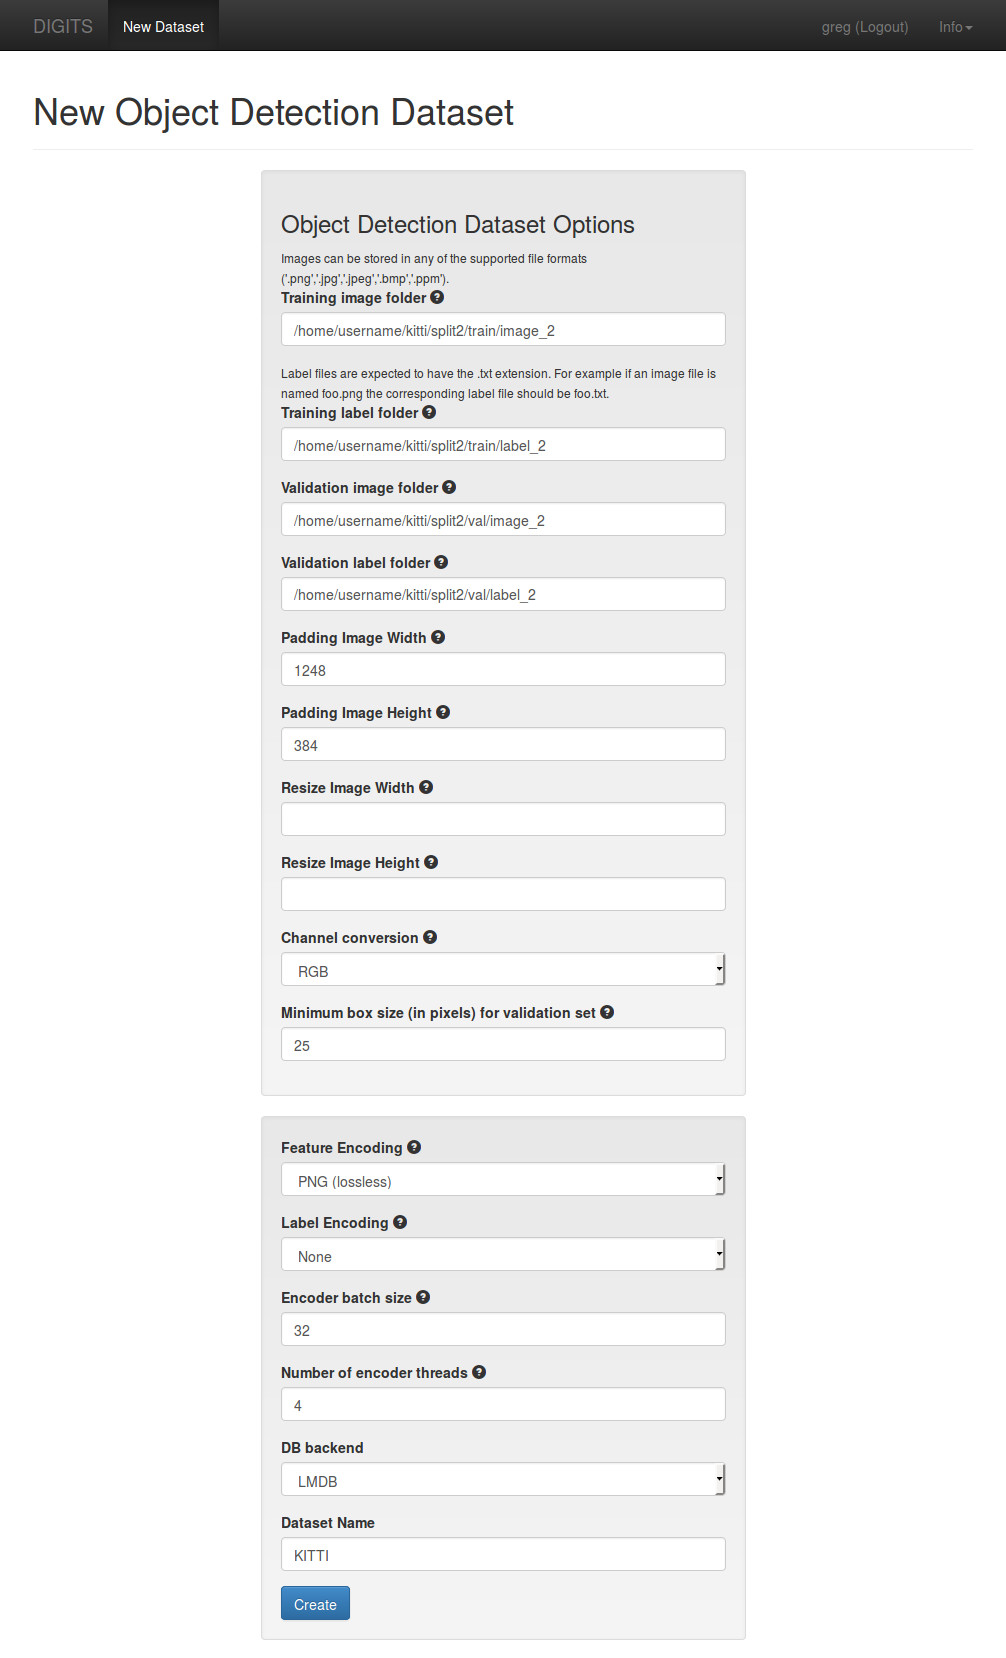
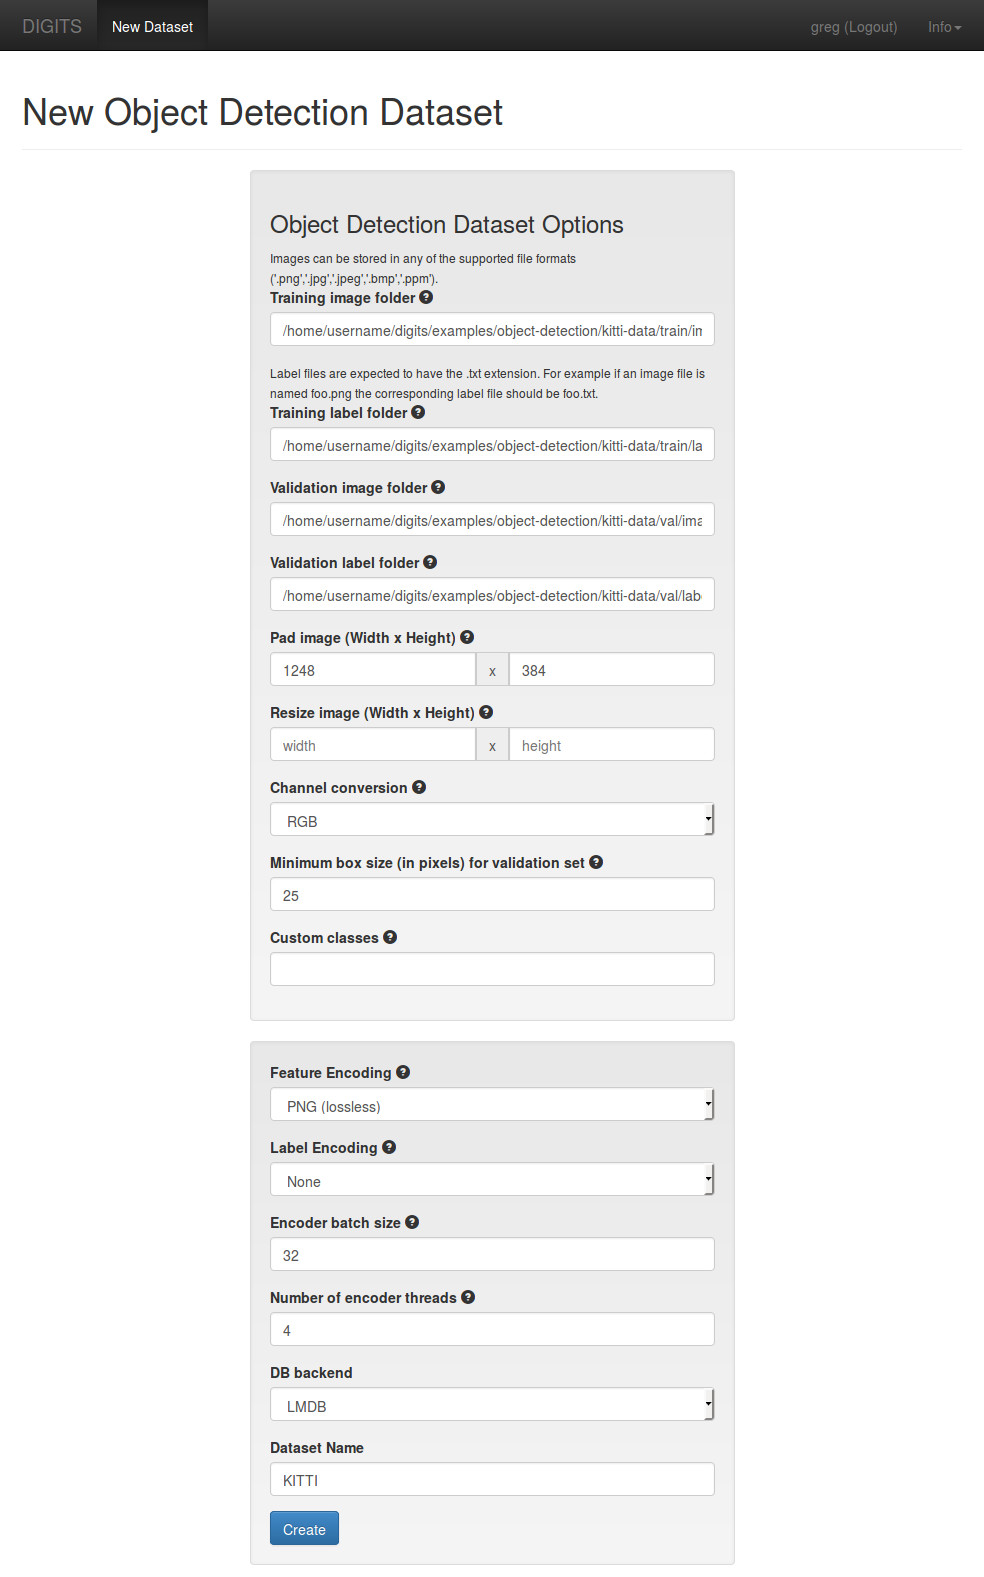
Improve object detection documentation
Add info about where to get KITTI data
Explain how to use kitti data script
Document the KITTI data format used
Small clarification about where to copy DetectNet from

diff --git a/digits/extensions/data/objectDetection/README.md b/digits/extensions/data/objectDetection/README.md
@@ -1,18 +1,130 @@
 # Object Detection Data Extension
 
-This data extension creates DIGITS datasets for Object Detection networks such as [DetectNet](https://github.com/NVIDIA/caffe/tree/caffe-0.15/examples/kitti).
+This data extension creates DIGITS datasets for object detection networks such as [DetectNet](https://github.com/NVIDIA/caffe/tree/caffe-0.15/examples/kitti).
 
-Labels are expected in KITTI format.
-Refer to the Object Detection track on KITTI web site for more information.
+DIGITS uses the KITTI format for object detection data.
+When preparing your own data for ingestion into a dataset, you must follow the same format.
 
-Custom class mappings may be used by specifiying a comma-separated list of lower-case class names in the Object Detection dataset creation form.
-Class ID #0 is intended to be reserved for `DontCare` objects.
-Labels whose class is not listed in the class mappings are implicitly mapped to the `DontCare` class.
-Class IDs are used by DetectNet (see `DetectNetTransformation.detectnet_groundtruth_param.object_class` fields) to recognize which objects should be included and mapped to the specified index in the coverage map.
+#### Table of contents
 
-The following table shows the default class-ID mappings in DIGITS:
+* [Folder structure](#folder-structure)
+* [Label format](#label-format)
+* [Custom class mappings](#custom-class-mappings)
 
-Class name | ID
+## Folder structure
+
+You should have one folder containing images, and another folder containing labels.
+
+* Image filenames are formatted like `IDENTIFIER.EXTENSION` (e.g. `000001.png` or `foo.jpg`).
+* Label filenames are formatted like `IDENTIFIER.txt` (e.g. `000001.txt` or `foo.txt`).
+
+These identifiers need to match.
+So, if you have a `foo.png` in your image directory, there must to be a corresponding `foo.txt` in your labels directory.
+
+If you want to include validation data, then you need separate folders for validation images and validation labels.
+A typical folder layout would look something like this:
+```
+train/
+├── images/
+│   └── 000001.png
+└── labels/
+    └── 000001.txt
+val/
+├── images/
+│   └── 000002.png
+└── labels/
+    └── 000002.txt
+```
+
+## Label format
+
+The format for KITTI labels is explained in the `readme.txt` from the "Object development kit".
+Here is the relevant portion:
+```
+Data Format Description
+=======================
+
+The data for training and testing can be found in the corresponding folders.
+The sub-folders are structured as follows:
+
+  - image_02/ contains the left color camera images (png)
+  - label_02/ contains the left color camera label files (plain text files)
+  - calib/ contains the calibration for all four cameras (plain text file)
+
+The label files contain the following information, which can be read and
+written using the matlab tools (readLabels.m, writeLabels.m) provided within
+this devkit. All values (numerical or strings) are separated via spaces,
+each row corresponds to one object. The 15 columns represent:
+
+#Values    Name      Description
+----------------------------------------------------------------------------
+   1    type         Describes the type of object: 'Car', 'Van', 'Truck',
+                     'Pedestrian', 'Person_sitting', 'Cyclist', 'Tram',
+                     'Misc' or 'DontCare'
+   1    truncated    Float from 0 (non-truncated) to 1 (truncated), where
+                     truncated refers to the object leaving image boundaries
+   1    occluded     Integer (0,1,2,3) indicating occlusion state:
+                     0 = fully visible, 1 = partly occluded
+                     2 = largely occluded, 3 = unknown
+   1    alpha        Observation angle of object, ranging [-pi..pi]
+   4    bbox         2D bounding box of object in the image (0-based index):
+                     contains left, top, right, bottom pixel coordinates
+   3    dimensions   3D object dimensions: height, width, length (in meters)
+   3    location     3D object location x,y,z in camera coordinates (in meters)
+   1    rotation_y   Rotation ry around Y-axis in camera coordinates [-pi..pi]
+   1    score        Only for results: Float, indicating confidence in
+                     detection, needed for p/r curves, higher is better.
+
+Here, 'DontCare' labels denote regions in which objects have not been labeled,
+for example because they have been too far away from the laser scanner. To
+prevent such objects from being counted as false positives our evaluation
+script will ignore objects detected in don't care regions of the test set.
+You can use the don't care labels in the training set to avoid that your object
+detector is harvesting hard negatives from those areas, in case you consider
+non-object regions from the training images as negative examples.
+
+The coordinates in the camera coordinate system can be projected in the image
+by using the 3x4 projection matrix in the calib folder, where for the left
+color camera for which the images are provided, P2 must be used. The
+difference between rotation_y and alpha is, that rotation_y is directly
+given in camera coordinates, while alpha also considers the vector from the
+camera center to the object center, to compute the relative orientation of
+the object with respect to the camera. For example, a car which is facing
+along the X-axis of the camera coordinate system corresponds to rotation_y=0,
+no matter where it is located in the X/Z plane (bird's eye view), while
+alpha is zero only, when this object is located along the Z-axis of the
+camera. When moving the car away from the Z-axis, the observation angle
+will change.
+
+To project a point from Velodyne coordinates into the left color image,
+you can use this formula: x = P2 * R0_rect * Tr_velo_to_cam * y
+For the right color image: x = P3 * R0_rect * Tr_velo_to_cam * y
+
+Note: All matrices are stored row-major, i.e., the first values correspond
+to the first row. R0_rect contains a 3x3 matrix which you need to extend to
+a 4x4 matrix by adding a 1 as the bottom-right element and 0's elsewhere.
+Tr_xxx is a 3x4 matrix (R|t), which you need to extend to a 4x4 matrix
+in the same way!
+
+Note, that while all this information is available for the training data,
+only the data which is actually needed for the particular benchmark must
+be provided to the evaluation server. However, all 15 values must be provided
+at all times, with the unused ones set to their default values (=invalid) as
+specified in writeLabels.m. Additionally a 16'th value must be provided
+with a floating value of the score for a particular detection, where higher
+indicates higher confidence in the detection. The range of your scores will
+be automatically determined by our evaluation server, you don't have to
+normalize it, but it should be roughly linear. If you use writeLabels.m for
+writing your results, this function will take care of storing all required
+data correctly.
+```
+
+## Custom class mappings
+
+When creating the dataset, DIGITS has to translate from the object type string to a numerical identifier.
+By default, DIGITS uses the following class mappings, as follows from the above label format description:
+
+Class name (string in label file) | Class ID (number in database)
 ---------- | ---
 dontcare | 0
 car | 1
@@ -29,3 +141,22 @@ people | 11
 cyclist | 12
 tram | 13
 person_sitting | 14
+
+**NOTE:** Class 0 is treated as a special case.
+See "Label format" above for a detailed description.
+All classes which don't exist in the provided mapping are implicitly mapped to 0.
+
+**NOTE:** Class 1 is also treated as a special case.
+DetectNet is a single-class object detection network, and only cares about the "Car" class, which is expected to be ID 1.
+You can change the mapping in the DetectNet prototxt, but it's simplest to just make the class you care about map to 1.
+
+Custom class mappings may be used by specifiying a comma-separated list of lower-case class names in the Object Detection dataset creation form.
+
+For example, if you only want to detect pedestrians, enter `dontcare,pedestrian` in the "Custom classes" field to generate this mapping:
+
+Class name | Class ID
+---------- | ---
+dontcare | 0
+pedestrian | 1
+
+All labeled objects other than "pedestrian" in your dataset will be mapped to 0.

diff --git a/examples/object-detection/README.md b/examples/object-detection/README.md
@@ -4,7 +4,7 @@ Table of Contents
 =================
 * [Introduction](#introduction)
 * [Dataset creation](#dataset-creation)
-    * [Preparing the data](#preparing-the-data)
+    * [Downloading and preparing the KITTI data](#downloading-and-preparing-the-kitti-data)
     * [Loading the data into DIGITS](#loading-the-data-into-digits)
 * [Model creation](#model-creation)
     * [DetectNet](#detectnet)
@@ -19,21 +19,45 @@ During inference, object detection will be materialized by drawing bounding rect
 
 ## Dataset creation
 
-### Preparing the data
+In this example, we will be using data from the Object Detection track of the KITTI Vision Benchmark Suite.
+You can of course use any other data you like, but DIGITS expects object detection data to be labelled in the style of KITTI data.
 
-This walk-through was tested using images and labels from the **Car** Object Detection track of the KITTI Vision benchmark.
-Other similar datasets may be used though you may prefer to download the KITTI dataset from their web site if you wish to replicate the results from this example.
+If you do want to use your own dataset instead of KITTI, read [digits/extensions/data/objectDetection/README.md](../../digits/extensions/data/objectDetection/README.md) to format your data properly and then skip the next section.
 
-Optionally you may split the dataset into a training set and a (usually much smaller) validation set.
-Doing so is strongly recommended to assess the quality of the neural network.
+### Downloading and preparing the KITTI data
 
-The data need to be structured in the following way:
-- An image folder contains supported images (.png, .jpg, .jpeg, .bmp, .ppm).
-- A label folder contains .txt files in KITTI format that define the ground truth.
-Note that for each image in the image folder there must be a corresponding text file in the label folder.
+We are unable to provide download links to the KITTI data like we can for MNIST and CIFAR, so you'll have to download a few large files yourself.
+Go to http://www.cvlibs.net/datasets/kitti/eval_object.php and download these files:
+
+ | Filename | Size
+------------ | ------------- | ------------- | -------------
+Left color images of object data set | `data_object_image_2.zip` | **12GB**
+Training labels of object data set | `data_object_label_2.zip` | 5MB
+Object development kit | `devkit_object.zip` | 1MB
+
+Copy those files into `$DIGITS_HOME/examples/object-detection/`.
+
+Then, use the `prepare_kitti_data.py` script to create a train/val split of the labelled images.
+This will take a few minutes, spent mostly on unpacking the large zipfiles.
+```
+$ ./prepare_kitti_data.py
+Extracting zipfiles ...
+Unzipping data_object_label_2.zip ...
+Unzipping data_object_image_2.zip ...
+Unzipping devkit_object.zip ...
+Calculating image to video mapping ...
+Splitting images by video ...
+Creating train/val split ...
+Done.
+```
+
+At the end you will have your data at `$DIGITS_HOME/examples/object-detection/kitti-data/{train,val}/`.
+
+The data is structured in the following way:
+- An image folder containing supported images (`.png`, `.jpg`, etc.).
+- A label folder containing `.txt` files in KITTI format that define the ground truth.
+For each image in the image folder there must be a corresponding text file in the label folder.
 For example if the image folder includes an image named `foo.png` then the label folder needs to include a file named `foo.txt`.
-
-There needs to be one of the above set of directories for each of the training and validation sets.
 
 ### Loading the data into DIGITS
 
@@ -60,7 +84,7 @@ In this example we will use **DetectNet**.
 DetectNet is a GoogLeNet-derived network that is specifically tuned for Object Detection.
 
 In order to train DetectNet, [NVcaffe](https://github.com/NVIDIA/caffe) version [0.15.1](https://github.com/NVIDIA/caffe/tree/v0.15.1) or later is required.
-The [model description for DetectNet](https://github.com/NVIDIA/caffe/tree/caffe-0.15/examples/kitti) may be found in the NV-Caffe repository.
+The model description for DetectNet can be found at `$CAFFE_HOME/examples/kitti/detectnet_network.prototxt` ([raw link](https://raw.githubusercontent.com/NVIDIA/caffe/caffe-0.15/examples/kitti/detectnet_network.prototxt)).
 
 Since DetectNet is derived from GoogLeNet it is strongly recommended to use pre-trained weights from an ImageNet-trained GoogLeNet as this will help speed training up significantly.
 A suitable pre-trained GoogLeNet `.caffemodel` may be found on this [page](https://github.com/BVLC/caffe/tree/rc3/models/bvlc_googlenet).
